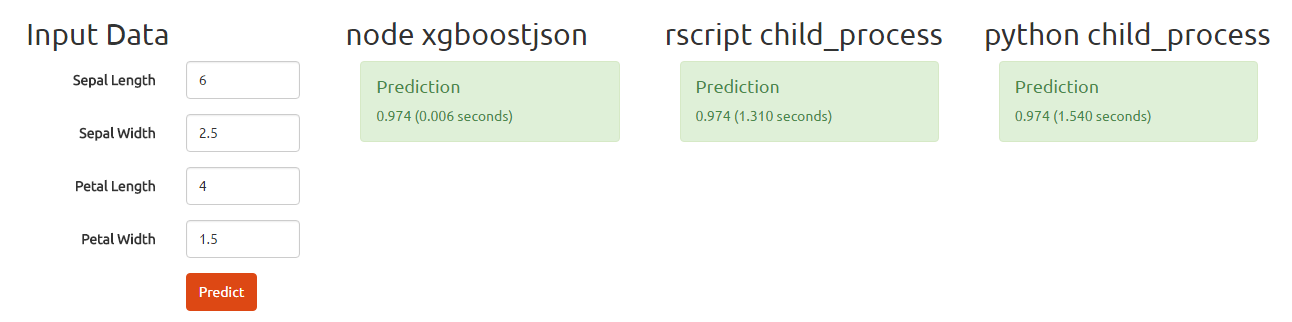
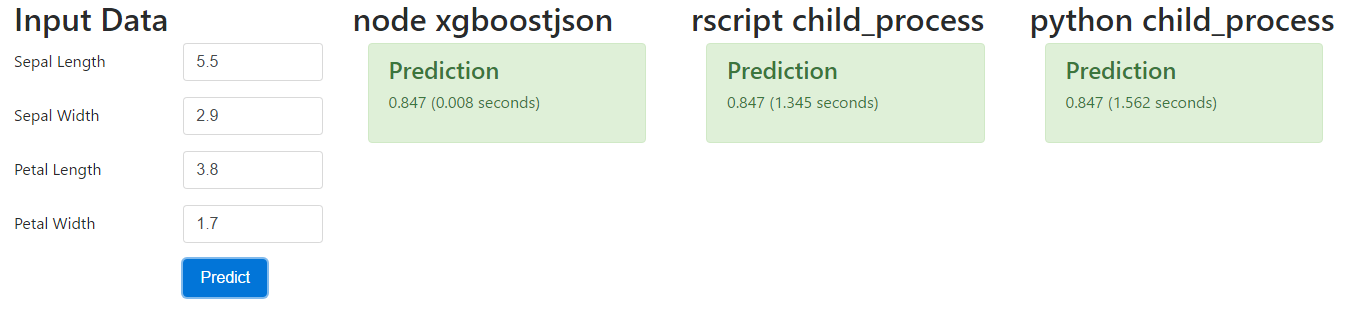
bootstrap 4 mods

diff --git a/demo.html b/demo.html
@@ -1,85 +1,73 @@
 <!DOCTYPE html>
 <html lang="en">
 	<head>
+		<!-- Required meta tags -->
 		<meta charset="utf-8">
-		<meta http-equiv="X-UA-Compatible" content="IE=edge">
-		<meta name="viewport" content="width=device-width, initial-scale=1">
-		<!-- The above 3 meta tags *must* come first in the head; any other head content must come *after* these tags -->
-		<title>xgboostjson demo</title>
-		<!-- Bootstrap -->
-		<link rel="stylesheet" href="https://maxcdn.bootstrapcdn.com/bootstrap/3.3.4/css/bootstrap.min.css">
-		<!-- Optional theme -->
-		<link href="https://maxcdn.bootstrapcdn.com/bootswatch/3.3.4/united/bootstrap.min.css" rel="stylesheet">
-		<!-- HTML5 shim and Respond.js for IE8 support of HTML5 elements and media queries -->
-		<!-- WARNING: Respond.js doesn't work if you view the page via file:// -->
-		<!--[if lt IE 9]>
-		<script src="https://oss.maxcdn.com/html5shiv/3.7.2/html5shiv.min.js"></script>
-		<script src="https://oss.maxcdn.com/respond/1.4.2/respond.min.js"></script>
-		<![endif]-->
-		<!-- jQuery (necessary for Bootstrap's JavaScript plugins) -->
-		<script src="https://ajax.googleapis.com/ajax/libs/jquery/1.11.2/jquery.min.js"></script>
-		<!-- Include all compiled plugins (below), or include individual files as needed -->
-		<script src="https://maxcdn.bootstrapcdn.com/bootstrap/3.3.4/js/bootstrap.min.js"></script>
-		<!-- hosted jquery ui -->
-		<link rel="stylesheet" href="https://ajax.googleapis.com/ajax/libs/jqueryui/1.11.4/themes/smoothness/jquery-ui.css">
-		<script src="https://ajax.googleapis.com/ajax/libs/jqueryui/1.11.4/jquery-ui.min.js"></script>
-		<style>
-		</style>
+		<meta name="viewport" content="width=device-width, initial-scale=1, shrink-to-fit=no">
+
+		<!-- Bootstrap CSS -->
+		<link rel="stylesheet" href="https://maxcdn.bootstrapcdn.com/bootstrap/4.0.0-alpha.6/css/bootstrap.min.css">
 	</head>
 	<body>
 		<div class="container-fluid">
-			<div id="input" class="col-xs-3">
+		<div class="row">
+			<div id="input" class="col-3">
 				<h2>Input Data</h2>
-				<form class="form-horizontal col-lg-12">
-					<fieldset id="searchForm">
-						<div class="form-group">
-							<label for="sepal_length" class="col-lg-6 control-label">Sepal Length</label>
-							<div class="col-lg-6">
+				<form class="form col-12">
+					<fieldset id="searchForm" class="form-group row">
+						<div class="form-group row">
+							<label for="sepal_length" class="col-6 col-form-label">Sepal Length</label>
+							<div class="col-6">
 								<input type="number" class="form-control" id="sepal_length" name="sepal_length" placeholder="Sepal Length" min="0", step="0.1" value="0">
 							</div>
 						</div>
-						<div class="form-group">
-							<label for="sepal_width" class="col-lg-6 control-label">Sepal Width</label>
-							<div class="col-lg-6">
+						<div class="form-group row">
+							<label for="sepal_width" class="col-6 col-form-label">Sepal Width</label>
+							<div class="col-6">
 								<input type="number" class="form-control" id="sepal_width" name="sepal_width" placeholder="Sepal Width" min="0", step="0.1" value="0">
 							</div>
 						</div>
-						<div class="form-group">
-							<label for="petal_length" class="col-lg-6 control-label">Petal Length</label>
-							<div class="col-lg-6">
+						<div class="form-group row">
+							<label for="petal_length" class="col-6 col-form-label">Petal Length</label>
+							<div class="col-6">
 								<input type="number" class="form-control" id="petal_length" name="petal_length" placeholder="Petal Length" min="0", step="0.1" value="0">
 							</div>
 						</div>
-						<div class="form-group">
-							<label for="petal_width" class="col-lg-6 control-label">Petal Width</label>
-							<div class="col-lg-6">
+						<div class="form-group row">
+							<label for="petal_width" class="col-6 col-form-label">Petal Width</label>
+							<div class="col-6">
 								<input type="number" class="form-control" id="petal_width" name="petal_width" placeholder="Petal Width" min="0", step="0.1" value="0">
 							</div>
 						</div>
-						<div class="form-group">
-							<div class="col-lg-6 col-lg-offset-6">
+						<div class="form-group row">
+							<div class="col-6 offset-6">
 								<button type="submit" class="btn btn-primary">Predict</button>
 							</div>
 						</div>
 					</fieldset>
 				</form>
 			</div>
-			<div class="col-xs-3">
+			<div class="col-3">
 				<h2>node xgboostjson</h2>
-				<div id="node" class="col-xs-12">
+				<div id="node" class="col-12">
 				</div>
 			</div>
-			<div class="col-xs-3">
+			<div class="col-3">
 				<h2>rscript child_process</h2>
-				<div id="r" class="col-xs-12">
+				<div id="r" class="col-12">
 				</div>
 			</div>
-			<div class="col-xs-3">
+			<div class="col-3">
 				<h2>python child_process</h2>
-				<div id="python" class="col-xs-12">
+				<div id="python" class="col-12">
 				</div>
 			</div>
 		</div>
+		</div>
+		<!-- jQuery first, then Tether, then Bootstrap JS. -->
+    <script src="https://code.jquery.com/jquery-3.1.1.js"></script>
+    <script src="https://cdnjs.cloudflare.com/ajax/libs/tether/1.4.0/js/tether.min.js"></script>
+    <script src="https://maxcdn.bootstrapcdn.com/bootstrap/4.0.0-alpha.6/js/bootstrap.min.js"></script>
 		<script type="text/javascript">
 		$(document).ready(function(){
 			$('form').on('submit', function(e){
@@ -92,7 +80,12 @@
 					},
 					success: function(data){
 						var time = (Date.now() - start)/1000;
-						$('#node').append('<div class="alert alert-success"><h4>Prediction</h4><p>' + data + ' (' + time.toFixed(3) +  ' seconds)</p></div>');
+						x = data;
+						$('#node').append(
+							'<div class="alert alert-success"><h4>Prediction</h4><p>' + 
+							parseFloat(data).toFixed(3) + 
+							' (' + time.toFixed(3) +  
+							' seconds)</p></div>');
 					}
 				});
 				$.ajax({
@@ -102,7 +95,11 @@
 					},
 					success: function(data){
 						var time = (Date.now() - start)/1000;
-						$('#r').append('<div class="alert alert-success"><h4>Prediction</h4><p>' + data + ' (' + time.toFixed(3) +  ' seconds)</p></div>');
+						$('#r').append(
+							'<div class="alert alert-success"><h4>Prediction</h4><p>' + 
+							parseFloat(data).toFixed(3) + 
+							' (' + time.toFixed(3) +  
+							' seconds)</p></div>');
 					}
 				});
 				$.ajax({
@@ -112,7 +109,11 @@
 					},
 					success: function(data){
 						var time = (Date.now() - start)/1000;
-						$('#python').append('<div class="alert alert-success"><h4>Prediction</h4><p>' + data + ' (' + time.toFixed(3) +  ' seconds)</p></div>');
+						$('#python').append(
+							'<div class="alert alert-success"><h4>Prediction</h4><p>' + 
+							parseFloat(data).toFixed(3) + 
+							' (' + time.toFixed(3) +  
+							' seconds)</p></div>');
 					}
 				});
 			});
